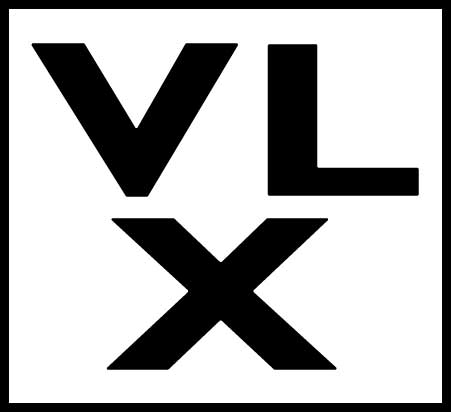
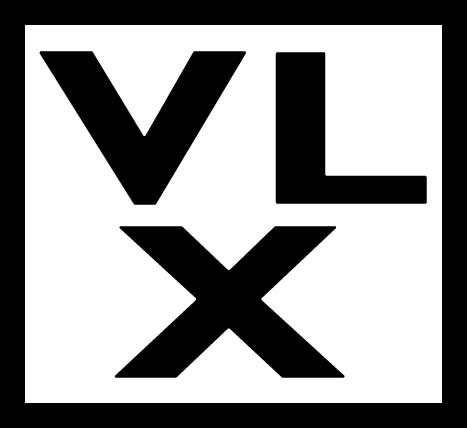
commit

diff --git a/templates/Home.html b/templates/Home.html
@@ -1,11 +1,12 @@
 <!DOCTYPE html>
 <html lang="en">
 <head>
+	<link rel="stylesheet" href="https://fonts.googleapis.com/css2?family=Material+Symbols+Outlined:opsz,wght,FILL,GRAD@48,400,0,0" />
 	<link rel="stylesheet" href="https://fonts.googleapis.com/css2?family=Material+Symbols+Sharp:opsz,wght,FILL,GRAD@40,400,0,-25" />
 	<link rel="preconnect" href="https://fonts.googleapis.com">
 	<link rel="preconnect" href="https://fonts.gstatic.com" crossorigin>
 	<link href="https://fonts.googleapis.com/css2?family=Montserrat:wght@700&family=Roboto:wght@300;400&display=swap" rel="stylesheet">
-	<link href="../static/description/description.css" rel="stylesheet">
+	
     <link href="../static/footer.css" rel="stylesheet">
     <link href="https://cdn.jsdelivr.net/npm/bootstrap@5.3.0-alpha1/dist/css/bootstrap.min.css" rel="stylesheet" integrity="sha384-GLhlTQ8iRABdZLl6O3oVMWSktQOp6b7In1Zl3/Jr59b6EGGoI1aFkw7cmDA6j6gD" crossorigin="anonymous">
 	<title>Header Bar Example</title>
@@ -15,7 +16,7 @@
 	<div class="navigation_panel">
 		<div class="navi">
 				<div class="logo">
-					<img src="../STATIC/MEDIA/VLX-block.png">
+					<img src="../static/MEDIA/VLX-block.jpg">
 
 				</div>
 				
@@ -33,7 +34,9 @@
 				<div class="acc">	
 					<a class="login" href="/login">Login</a>
 					<a class="register" href="/register">Register</a>
-					<a class="sell" href="#">SELL</a>
+					<a class="sell" href="#"><span class="material-symbols-outlined">
+						sell
+						</span>SELL</a>
 					
 				</div>
 		

diff --git a/STATIC/home.css b/STATIC/home.css
@@ -14,7 +14,7 @@ body {
 .navigation_panel {
 	
 	width: 101%;
-	background-color: rgb(228, 228, 228);
+	background-color: rgb(205, 205, 205);
 	background-size: cover;
 	padding: 5px;
 	margin: -20px -8px -8px ;
@@ -25,8 +25,8 @@ body {
 }
 
 img{
-	width:60px;
-	margin-top: 7px;
+	width:70px;
+	margin-top: 12px;
 	margin-left: 30px;
 
 }
@@ -115,7 +115,7 @@ form {
 }
 .acc{
 	padding-right: 20px;
-	padding-top: 20px ;
+	padding-top: 12px ;
 	display: flex;
 	justify-content: right;
 	align-items: center;
@@ -133,10 +133,11 @@ form {
 	font-weight: 400;
 }
 .sell{
+	
 	justify-content: center;
 	align-items: center;
 	background-color: #ffffff;
-	font-weight: 500;
+	font-weight: 600;
 	padding-right: 25px ;
 	padding-left: 25px ;
 	border: 2.5px solid #000;
@@ -147,13 +148,13 @@ form {
 	
 }
 .login:hover {
-	color: #fdfdfd;
+	color: #ffffff;
 }
 .login:active{
 	color: #000;
 }
 .register:hover {
-	color: #fdfdfd;
+	color: #ffffff;
 }
 .register:active{
 	color: #000;
@@ -231,7 +232,7 @@ form {
 	padding-left: 110px;
 	font-size: 60px;
 	font-family: 'Roboto', sans-serif;
-	color: aliceblue;
+	color: rgb(255, 255, 255);
 	
 }
 .subheading{
@@ -239,7 +240,7 @@ form {
 	padding-left: 110px;
 	font-size: 95px;
 	font-family: 'Montserrat', sans-serif;
-	color: aliceblue;
+	color: rgb(255, 255, 255);
 }
 .products{
 	margin-top: 20px;

diff --git a/templates/login.html b/templates/login.html
@@ -29,12 +29,12 @@
                 <br>
                 <p><a href="#.html"><u>Forgot password</u></a></p>
                 <button type="submit" class="signup-btn">Login</button>   
-                <p>Don't have an account ? <a href="../templates/register.html">Sign up</a></p>
+                <p>Don't have an account ? <a href="/register">Sign up</a></p>
             </form>
         </div>
         <div class="home-area">
             <div class="transition">
-            <a href="../templates/home.html">
+            <a href="/">
             <button class="home-button"><span class="material-symbols-sharp">
                 arrow_back
                 </span><span class="home_text">Go back to Home page</span></button></a>

diff --git a/templates/Register.html b/templates/Register.html
@@ -38,12 +38,12 @@
                 <button type="button" class="twitter-btn">Login with twitter</button>
                 <br><br>
                 -->
-                <p>Already have an account ? <a href="../templates/login.html">Sign in</a></p>
+                <p>Already have an account ? <a href="/login">Sign in</a></p>
             </form>
         </div>
         <div class="home-area">
             <div class="transition">
-            <a href="../templates/home.html">
+            <a href="/">
             <button class="home-button"><span class="material-symbols-sharp">
                 arrow_back
                 </span><span class="home_text">Go back to Home page</span></button></a>

diff --git a/STATIC/login.css b/STATIC/login.css
@@ -14,7 +14,7 @@ body
     
 }
 .ani-back{
-    background-image: linear-gradient(to right,rgba(0, 0, 0, 0.4),rgba(255, 255, 255,0)), url(../STATIC/MEDIA/login_pic.jpg);
+    background-image: linear-gradient(to right,rgba(0, 0, 0, 0.4),rgba(255, 255, 255,0)), url(../static/MEDIA/login_pic.jpg);
     background-position: center;
     background-size: cover;
     height: 98vh;
